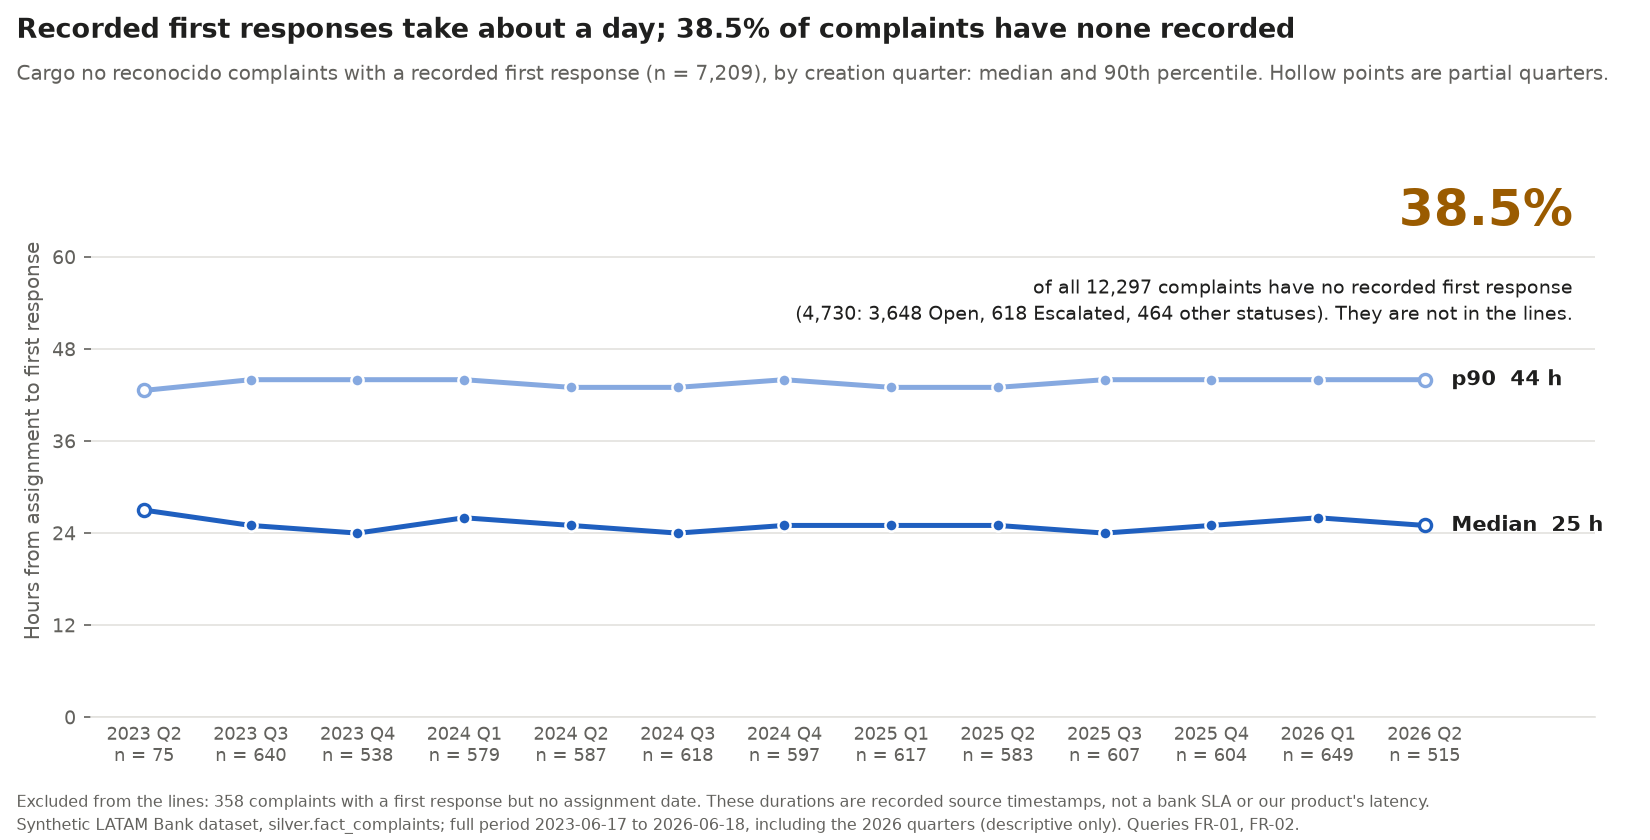
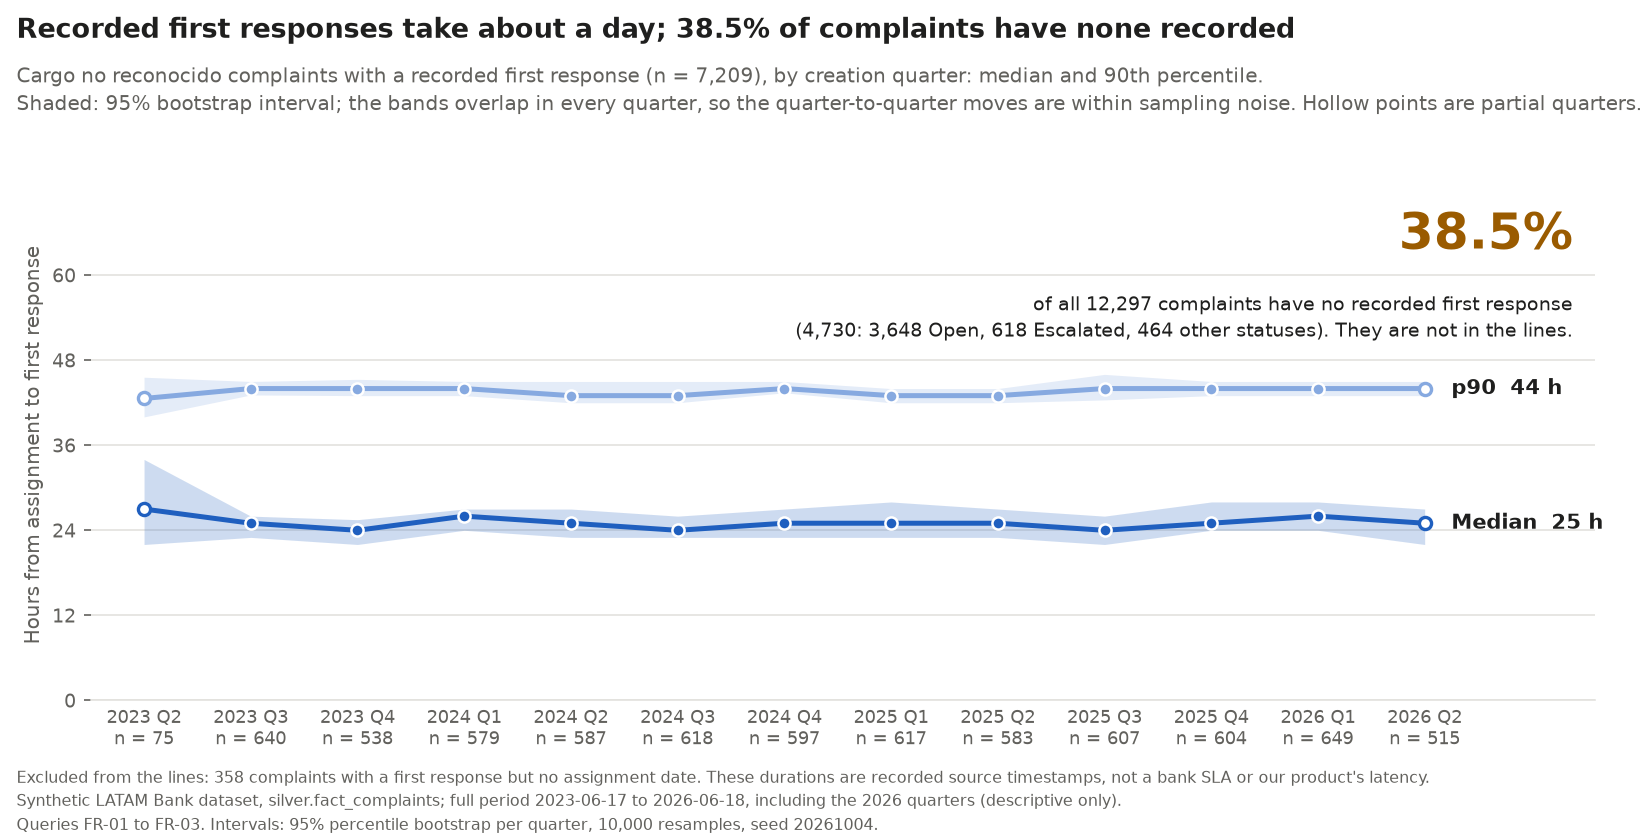
feat(outcomes): bootstrap 95% intervals on the first-response chart
Shaded 95% percentile-bootstrap bands (10,000 resamples, seed 20261004)
around the median and p90 per quarter. FR-03 reads one duration per
charted complaint (no identifiers) and must reproduce FR-01's n, median
and p90 before any interval is computed. Every quarter's interval
overlaps every other's, so the quarterly moves are sampling noise.
Appendix A gains the method note; the full-quarter median range is
corrected to 24-26 h (27 h was the partial 2023 Q2).

Tests: pytest data_foundation/tests/test_first_response.py (4 passed);
scripts/check_doc_links.py.

Changed region(s): [[0.0, 0.2167, 0.9582, 0.7738], [0.0, 0.8357, 0.8964, 0.9905], [0.0, 0.0619, 0.9891, 0.1548]]

diff --git a/data_foundation/scripts/run_first_response.py b/data_foundation/scripts/run_first_response.py
@@ -30,11 +30,37 @@ def _rows(con, sql: str) -> list[dict]:
     return [dict(zip(cols, r)) for r in cur.fetchall()]
 
 
+BOOT_DRAWS, BOOT_SEED = 10_000, 20261004
+
+
+def bootstrap_ci(values, q: float, draws: int = BOOT_DRAWS, seed: int = BOOT_SEED) -> tuple[float, float]:
+    """95% percentile-bootstrap interval for the q-quantile (linear interpolation, as DuckDB's quantile_cont).
+
+    Resamples the quarter's durations with replacement `draws` times from a fixed seed, so a rerun on the same
+    data gives the same bounds. Holds one draws x n matrix at a time (at most 10,000 x 649 floats)."""
+    import numpy as np
+    x = np.asarray(values, dtype=float)
+    rng = np.random.default_rng(seed)
+    stats = np.quantile(x[rng.integers(0, len(x), size=(draws, len(x)))], q, axis=1)
+    low, high = np.quantile(stats, [0.025, 0.975])
+    return round(float(low), 2), round(float(high), 2)
+
+
 def aggregates(con) -> dict:
-    """FR-01 per quarter and FR-02 coverage, with the derived rates; every count is read, none is assumed."""
-    quarters = [{**r, "first_day": str(r["first_day"]), "last_day": str(r["last_day"]),
-                 "median_hours": round(r["median_hours"], 2), "p90_hours": round(r["p90_hours"], 2)}
-                for r in _rows(con, (QUERIES / "FR-01_by_quarter.sql").read_text(encoding="utf-8"))]
+    """FR-01 per quarter with bootstrap intervals from FR-03, and FR-02 coverage; every count is read, none assumed."""
+    import numpy as np
+    durations: dict[tuple[int, int], list[float]] = {}
+    for r in _rows(con, (QUERIES / "FR-03_durations.sql").read_text(encoding="utf-8")):
+        durations.setdefault((r["year"], r["quarter"]), []).append(r["hours"])
+    quarters = []
+    for r in _rows(con, (QUERIES / "FR-01_by_quarter.sql").read_text(encoding="utf-8")):
+        x = durations[(r["year"], r["quarter"])]
+        if len(x) != r["n"] or abs(np.quantile(x, .5) - r["median_hours"]) > 1e-9 or abs(np.quantile(x, .9) - r["p90_hours"]) > 1e-9:
+            raise ValueError(f"FR-03 does not reproduce FR-01 for {r['year']} Q{r['quarter']}")
+        (m_lo, m_hi), (p_lo, p_hi) = bootstrap_ci(x, .5), bootstrap_ci(x, .9)
+        quarters.append({**r, "first_day": str(r["first_day"]), "last_day": str(r["last_day"]),
+                         "median_hours": round(r["median_hours"], 2), "median_ci95": [m_lo, m_hi],
+                         "p90_hours": round(r["p90_hours"], 2), "p90_ci95": [p_lo, p_hi]})
     cov = _rows(con, (QUERIES / "FR-02_coverage.sql").read_text(encoding="utf-8"))
     one = {r["measure"]: r["n"] for r in cov if r["label"] is None}
     by_status = {r["label"]: r["n"] for r in cov if r["measure"] == "no_first_response_by_status"}
@@ -47,7 +73,8 @@ def aggregates(con) -> dict:
             "no_first_response_by_status": dict(sorted(by_status.items(), key=lambda kv: -kv[1])),
             "excluded_no_assignment": one["first_response_without_assignment"],
             "excluded_before_assignment": one["first_response_before_assignment"],
-            "charted": one["charted"], "quarters": quarters}
+            "charted": one["charted"], "quarters": quarters,
+            "intervals": f"95% percentile bootstrap per quarter, {BOOT_DRAWS:,} resamples, seed {BOOT_SEED}"}
 
 
 def chart(data: dict, out: Path = CHART_OUT) -> None:
@@ -62,7 +89,9 @@ def chart(data: dict, out: Path = CHART_OUT) -> None:
     med, p90 = [q["median_hours"] for q in qs], [q["p90_hours"] for q in qs]
     partial = [i for i, q in enumerate(qs) if _partial(q)]
     fig, ax = plt.subplots(figsize=(11, 5.6), facecolor="white")
+    bands = {"p90": [q["p90_ci95"] for q in qs], "Median": [q["median_ci95"] for q in qs]}
     for vals, colour, name in ((p90, light, "p90"), (med, blue, "Median")):
+        ax.fill_between(x, [b[0] for b in bands[name]], [b[1] for b in bands[name]], color=colour, alpha=.22, lw=0, zorder=1)
         ax.plot(x, vals, color=colour, lw=2.4, zorder=2)
         full = [i for i in x if i not in partial]
         ax.scatter(full, [vals[i] for i in full], color=colour, s=34, zorder=3, edgecolor="white", linewidth=1.2)
@@ -93,13 +122,16 @@ def chart(data: dict, out: Path = CHART_OUT) -> None:
     fig.suptitle(f"Recorded first responses take about a day; "
                  f"{100 * data['no_first_response_share']:.1f}% of complaints have none recorded", x=.01, ha="left",
                  fontsize=13, fontweight="bold", color=ink)
-    fig.text(.01, .905, f"Cargo no reconocido complaints with a recorded first response (n = {data['charted']:,}), by creation "
-             "quarter: median and 90th percentile. Hollow points are partial quarters.", fontsize=9.5, color=muted)
+    fig.text(.01, .925, f"Cargo no reconocido complaints with a recorded first response (n = {data['charted']:,}), by creation "
+             "quarter: median and 90th percentile.\nShaded: 95% bootstrap interval; the bands overlap in every quarter, so the "
+             "quarter-to-quarter moves are within sampling noise. Hollow points are partial quarters.",
+             fontsize=9.5, color=muted, va="top", linespacing=1.4)
     fig.text(.01, .012, f"Excluded from the lines: {data['excluded_no_assignment']:,} complaints with a first response but no "
              "assignment date. These durations are recorded source timestamps, not a bank SLA or our product's latency.\n"
              "Synthetic LATAM Bank dataset, silver.fact_complaints; full period 2023-06-17 to 2026-06-18, including the 2026 "
-             "quarters (descriptive only). Queries FR-01, FR-02.", fontsize=7.8, color=muted, linespacing=1.45)
-    fig.tight_layout(rect=(0, .06, 1, .89))
+             f"quarters (descriptive only).\nQueries FR-01 to FR-03. Intervals: {data['intervals']}.", fontsize=7.8, color=muted,
+             linespacing=1.45)
+    fig.tight_layout(rect=(0, .08, 1, .86))
     out.parent.mkdir(parents=True, exist_ok=True)
     fig.savefig(out, dpi=150, facecolor="white")
     plt.close(fig)

diff --git a/data_foundation/tests/test_first_response.py b/data_foundation/tests/test_first_response.py
@@ -37,6 +37,15 @@ def test_filters_are_counted_and_quarters_stay_apart(con):
     assert by_q[(2024, 2)]["n"] == 1 and by_q[(2024, 2)]["median_hours"] == 36.0
 
 
+def test_intervals_hold_their_point_and_are_reproducible(con):
+    for q in fr.aggregates(con)["quarters"]:
+        assert q["median_ci95"][0] <= q["median_hours"] <= q["median_ci95"][1]
+        assert q["p90_ci95"][0] <= q["p90_hours"] <= q["p90_ci95"][1]
+    x = list(range(200))
+    low, high = fr.bootstrap_ci(x, .5)
+    assert low < 99.5 < high and (low, high) == fr.bootstrap_ci(x, .5)
+
+
 def test_chart_draws_from_the_aggregates_alone(con, tmp_path):
     pytest.importorskip("matplotlib")  # chart dependencies come from requirements-charts.txt, not the CI install
     data =json.loads(json.dumps(fr.aggregates(con), default=str))

diff --git a/Docs/deliverables/BUSINESS_OUTCOMES.md b/Docs/deliverables/BUSINESS_OUTCOMES.md
@@ -211,9 +211,9 @@ The table maps each question to a measure, gives the baseline in the supplied da
 
 ### A. First response by quarter
 
-![Line chart by creation quarter, 2023 Q2 to 2026 Q2: median hours from assignment to first response stays at 24 to 27 and the 90th percentile at 43 to 44 in every full quarter, each quarter with its sample size; a callout gives 38.5% of complaints with no recorded first response](../Evidence/business/charts/first-response-by-quarter.png)
+![Line chart by creation quarter, 2023 Q2 to 2026 Q2: median hours from assignment to first response stays at 24 to 26 and the 90th percentile at 43 to 44 in every full quarter, each quarter with its sample size and a shaded 95% bootstrap interval around both lines, and the intervals overlap in every quarter; a callout gives 38.5% of complaints with no recorded first response](../Evidence/business/charts/first-response-by-quarter.png)
 
-**Finding.** Among unrecognized-charge complaints with a recorded first response, the time from assignment to first response is about one day in every quarter: a median of 24–27 hours and a 90th percentile of 43–44 hours in every full quarter. But 38.5% of these complaints have no recorded first response.
+**Finding.** Among unrecognized-charge complaints with a recorded first response, the time from assignment to first response is about one day in every quarter: a median of 24–26 hours and a 90th percentile of 43–44 hours in every full quarter. The quarter-to-quarter moves are sampling noise: every quarter's 95% interval overlaps every other quarter's. But 38.5% of these complaints have no recorded first response.
 
 **Population and denominators.** `silver.fact_complaints` with `subcategory = 'Cargo no reconocido'`, every available quarter (2023-06-17 to 2026-06-18; the first and last quarters are partial):
 
@@ -227,7 +227,7 @@ The table maps each question to a measure, gives the baseline in the supplied da
 | **No recorded first response** | **4,730 / 12,297 = 38.5%** |
 | … by status: Open / Escalated / In Process / Rejected / Resolved / Closed | 3,648 / 618 / 241 / 111 / 95 / 17 |
 
-**Method.** For each charted complaint, the hours from `assignment_date` to `first_response_date`, grouped by the quarter of `creation_date`; each quarter's median and 90th percentile are computed separately and never pooled. Each quarter's n is on the chart (75 in the partial 2023 Q2, 515–649 otherwise). The queries are [`FR-01`](../../data_foundation/queries/first_response/FR-01_by_quarter.sql) and [`FR-02`](../../data_foundation/queries/first_response/FR-02_coverage.sql); `python -m data_foundation.scripts.run_first_response --db <Silver DuckDB> --quality <its quality_results.json>` reruns them, checks that the counts reconcile, and writes the [aggregates](../Evidence/business/first-response-by-quarter.json) (no row-level data) and the chart. These figures come from Silver quality run `20261002T232200Z`. This is the full period, not the design window, so it includes the 2026 quarters; it is descriptive and informs no design choice (ADR-005).
+**Method.** For each charted complaint, the hours from `assignment_date` to `first_response_date`, grouped by the quarter of `creation_date`; each quarter's median and 90th percentile are computed separately and never pooled. Each quarter's n is on the chart (75 in the partial 2023 Q2, 515–649 otherwise). The shaded bands are 95% percentile-bootstrap intervals per quarter (10,000 resamples of that quarter's durations, seed 20261004, the same linear quantile as DuckDB's `quantile_cont`). In full quarters, the median's bands span 22–28 hours and the p90's 42–46. The highest lower bound is below the lowest upper bound for both lines (median 24.0 < 25.5 hours, p90 43.4 < 44.0), so no two quarters are distinguishable. The partial 2023 Q2 is widest (median 22–34 hours). The queries are [`FR-01`](../../data_foundation/queries/first_response/FR-01_by_quarter.sql), [`FR-02`](../../data_foundation/queries/first_response/FR-02_coverage.sql) and [`FR-03`](../../data_foundation/queries/first_response/FR-03_durations.sql) (one duration per charted complaint, no identifiers, used only for the intervals); `python -m data_foundation.scripts.run_first_response --db <Silver DuckDB> --quality <its quality_results.json>` reruns them, checks that the counts reconcile and that FR-03 reproduces FR-01's n, median and p90, and writes the [aggregates](../Evidence/business/first-response-by-quarter.json) (no row-level data) and the chart. These figures come from Silver quality run `20261002T232200Z`. This is the full period, not the design window, so it includes the 2026 quarters; it is descriptive and informs no design choice (ADR-005).
 
 **Limits.**
 - **The data is synthetic.** These are recorded timestamps in a generated dataset, not observations of a bank's customers.
